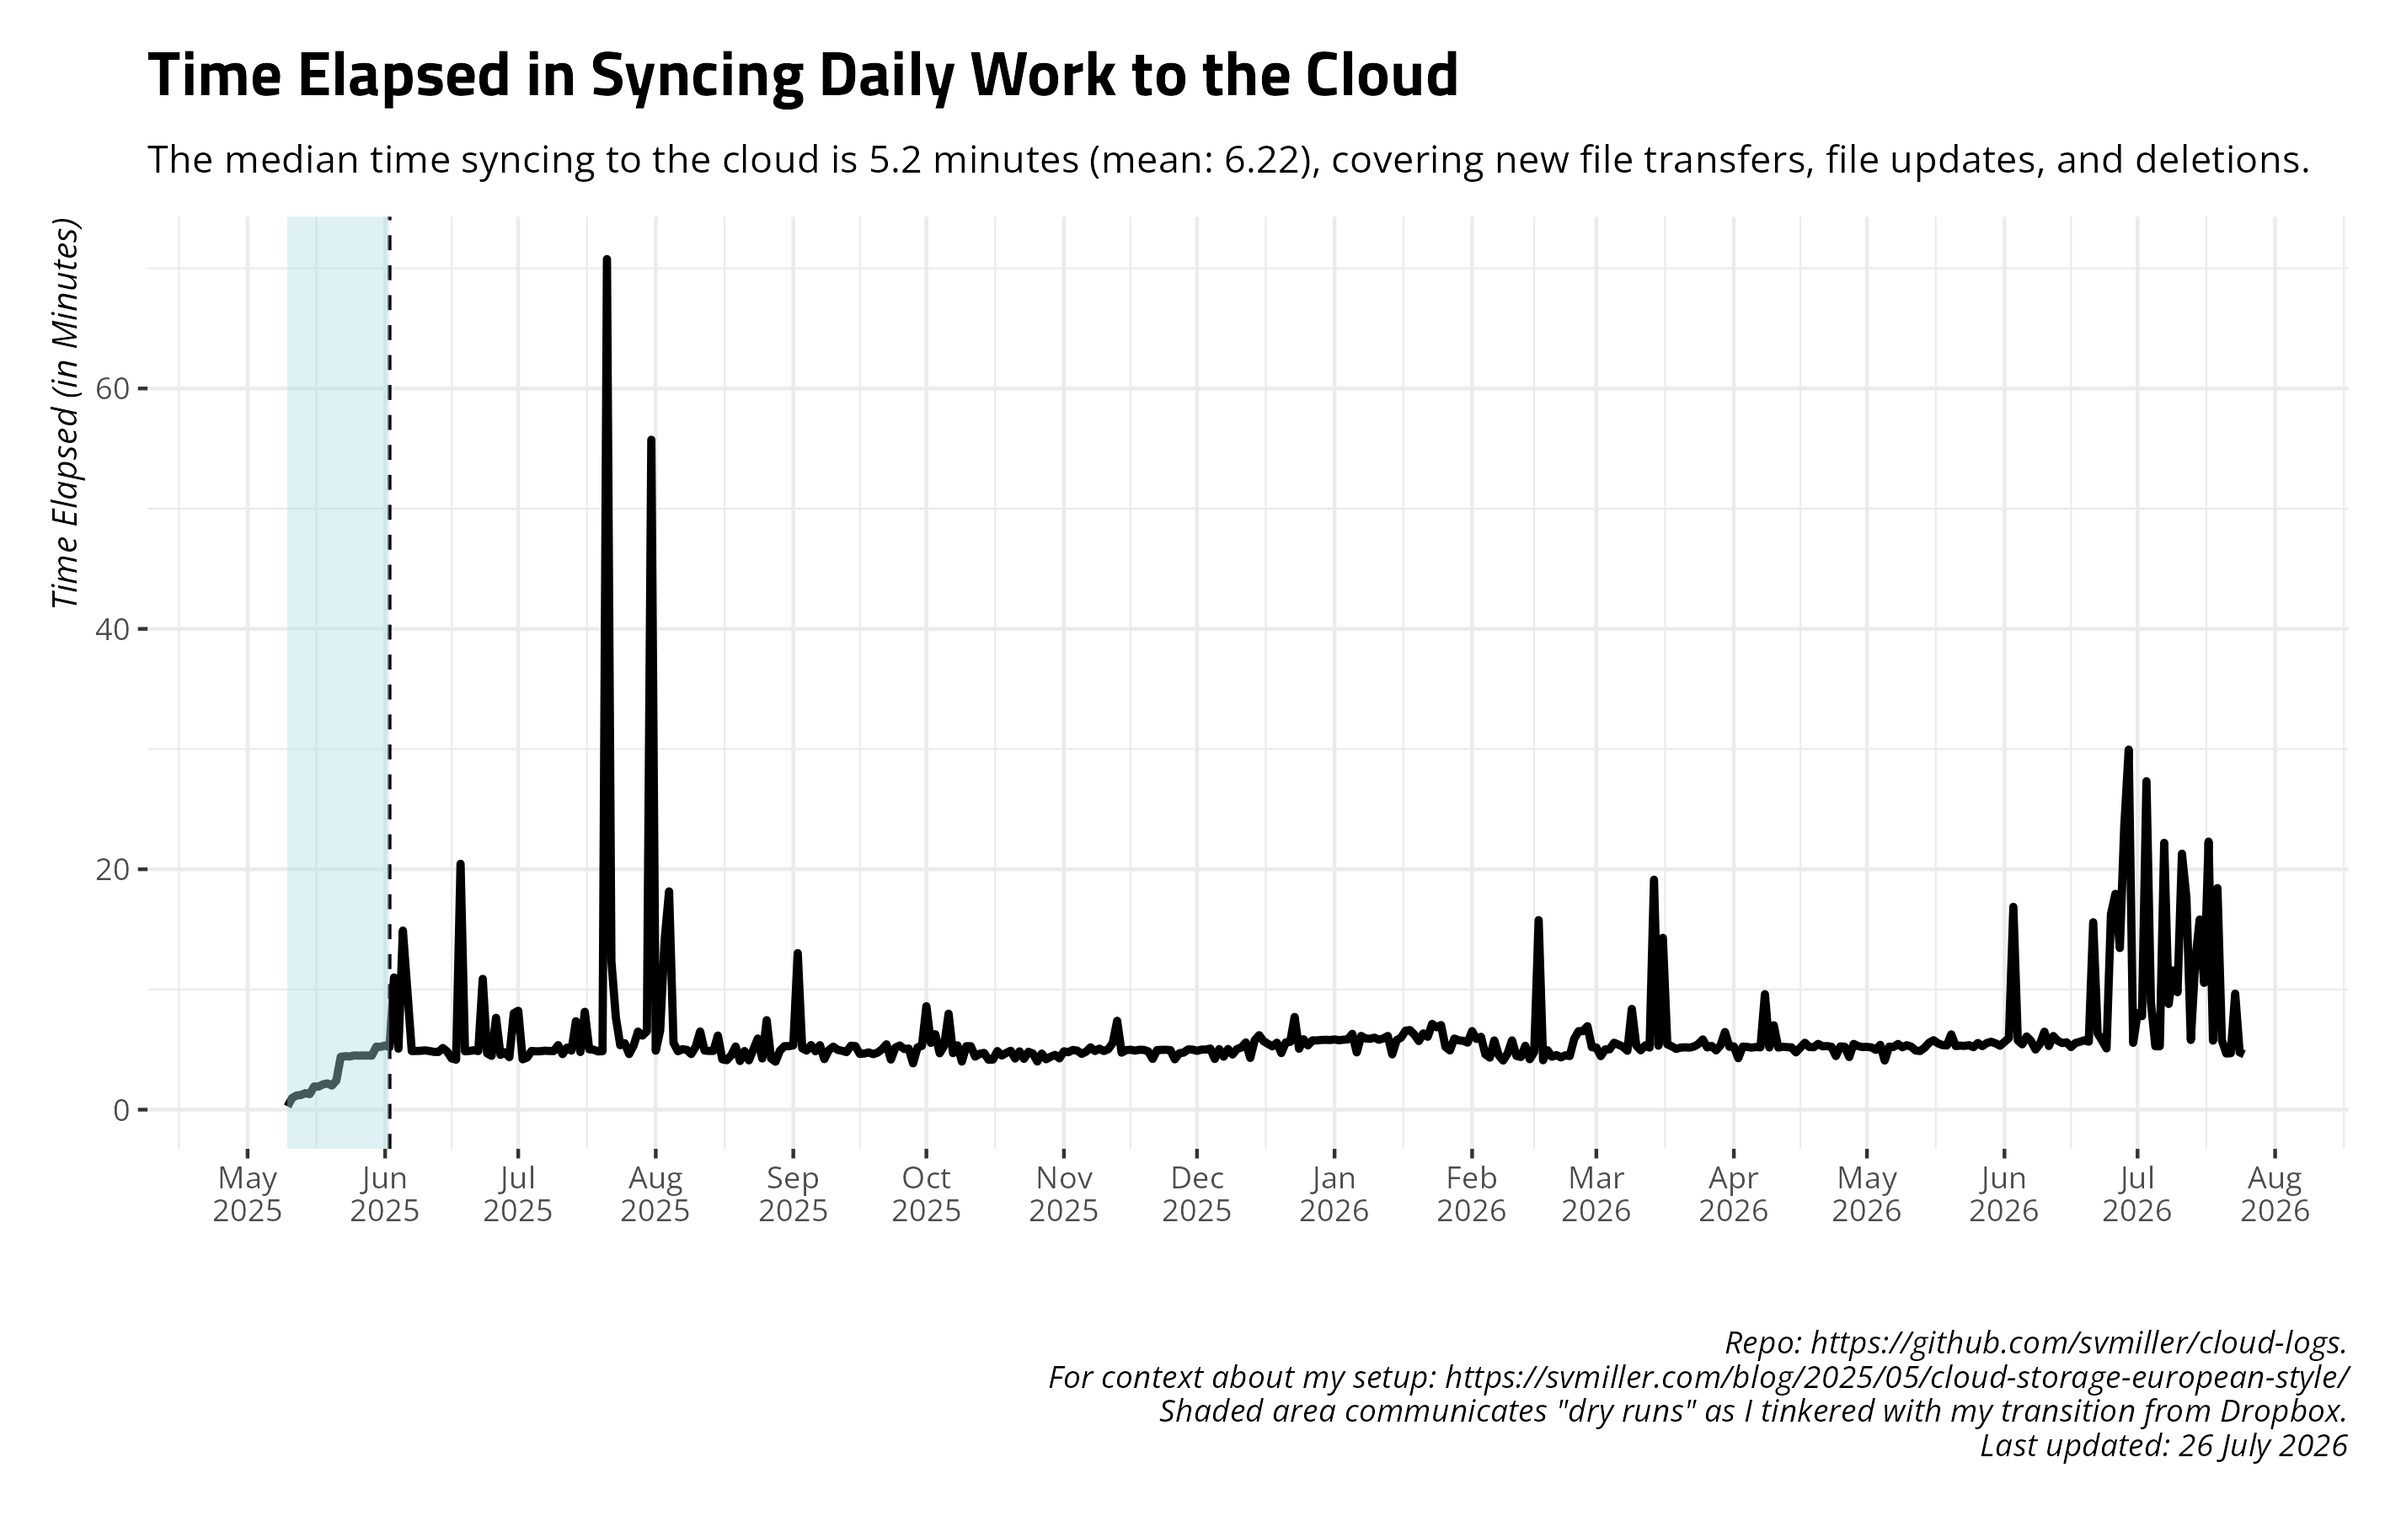
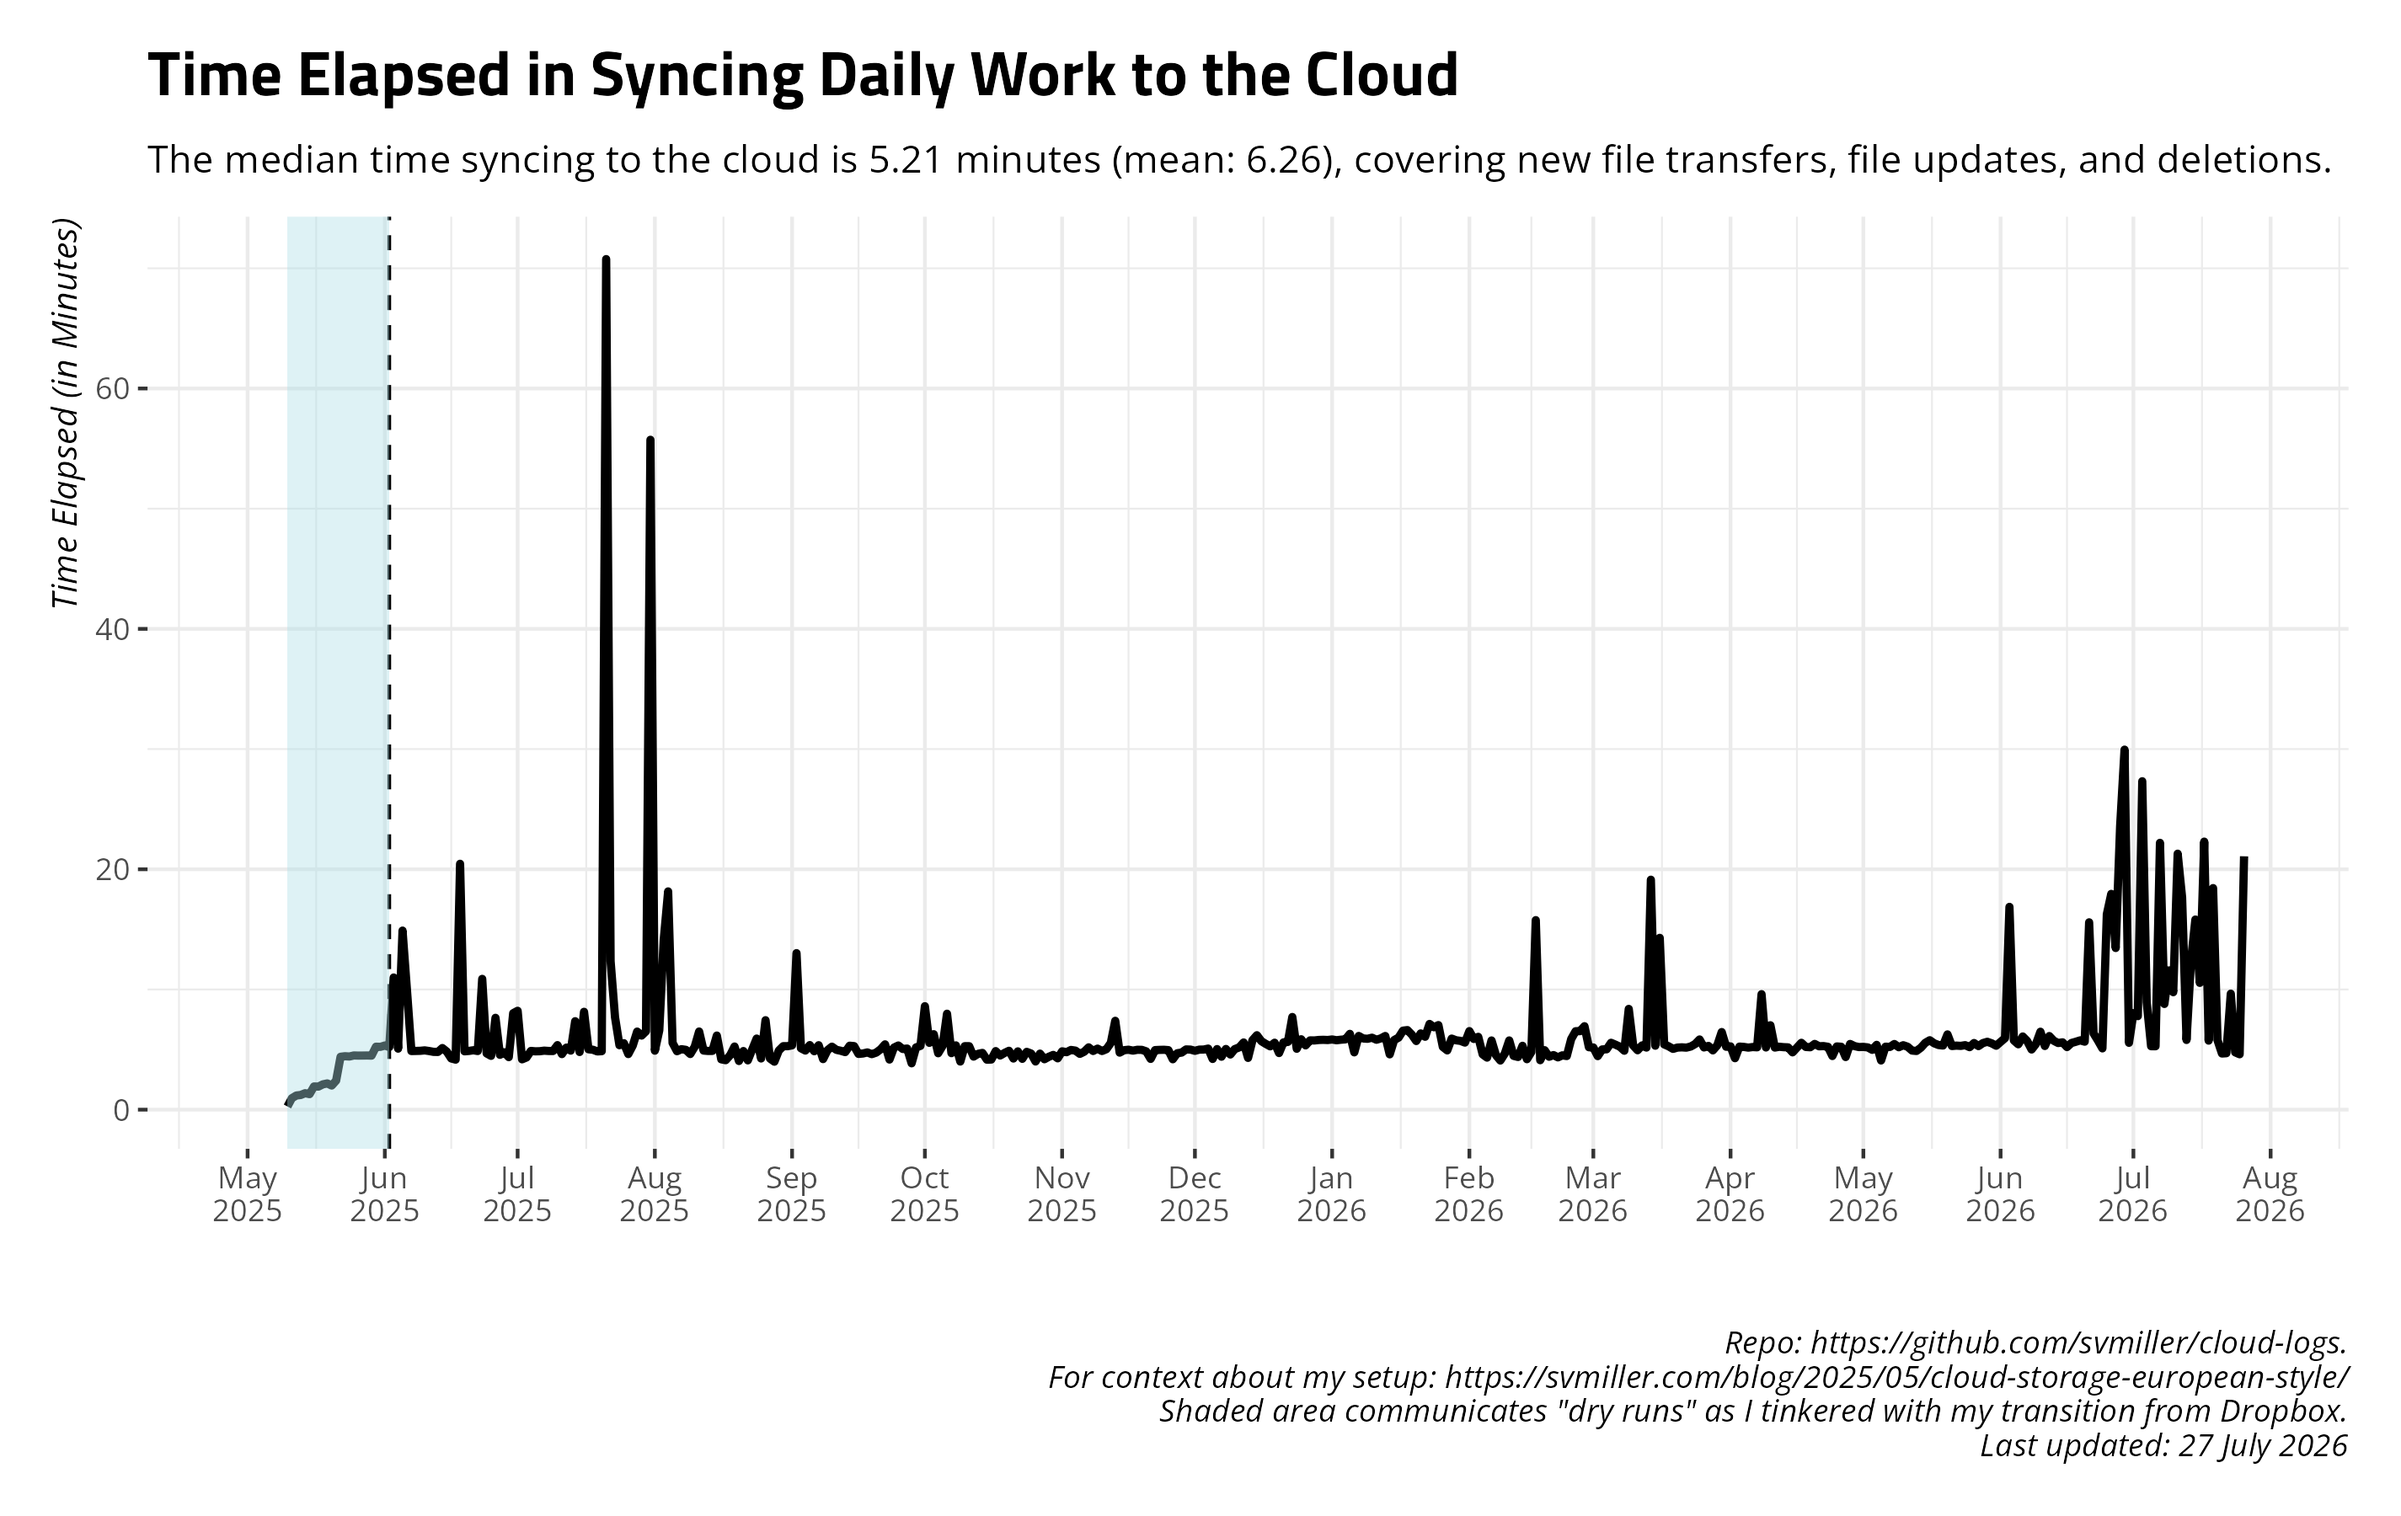
Date: 2026-07-27 09:00:32. Hi mom!

diff --git a/README.md b/README.md
@@ -27,17 +27,17 @@ and uploads to Github.
     #> # A tibble: 14 × 4
     #>    date       ftransfer stransfer   elapsed 
     #>    <date>         <dbl> <chr>       <chr>   
-    #>  1 2026-07-12         1 2.406 KiB   17m39.5s
-    #>  2 2026-07-13         0 <NA>        5m47.9s 
-    #>  3 2026-07-14         0 <NA>        12m19.6s
-    #>  4 2026-07-15         0 <NA>        15m49.1s
-    #>  5 2026-07-16         0 <NA>        10m32.8s
-    #>  6 2026-07-17         0 <NA>        22m18.0s
-    #>  7 2026-07-18         1 926.506 KiB 5m44.6s 
-    #>  8 2026-07-19         0 <NA>        18m26.1s
-    #>  9 2026-07-20         2 59.563 KiB  5m46.9s 
-    #> 10 2026-07-21       194 766.281 KiB 4m40.3s 
-    #> 11 2026-07-22        30 85.817 KiB  4m41.8s 
-    #> 12 2026-07-23         8 9.150 MiB   9m39.1s 
-    #> 13 2026-07-24         2 65.241 KiB  4m46.2s 
-    #> 14 2026-07-25         0 <NA>        4m36.5s
+    #>  1 2026-07-13         0 <NA>        5m47.9s 
+    #>  2 2026-07-14         0 <NA>        12m19.6s
+    #>  3 2026-07-15         0 <NA>        15m49.1s
+    #>  4 2026-07-16         0 <NA>        10m32.8s
+    #>  5 2026-07-17         0 <NA>        22m18.0s
+    #>  6 2026-07-18         1 926.506 KiB 5m44.6s 
+    #>  7 2026-07-19         0 <NA>        18m26.1s
+    #>  8 2026-07-20         2 59.563 KiB  5m46.9s 
+    #>  9 2026-07-21       194 766.281 KiB 4m40.3s 
+    #> 10 2026-07-22        30 85.817 KiB  4m41.8s 
+    #> 11 2026-07-23         8 9.150 MiB   9m39.1s 
+    #> 12 2026-07-24         2 65.241 KiB  4m46.2s 
+    #> 13 2026-07-25         0 <NA>        4m36.5s 
+    #> 14 2026-07-26         0 <NA>        21m4.7s
